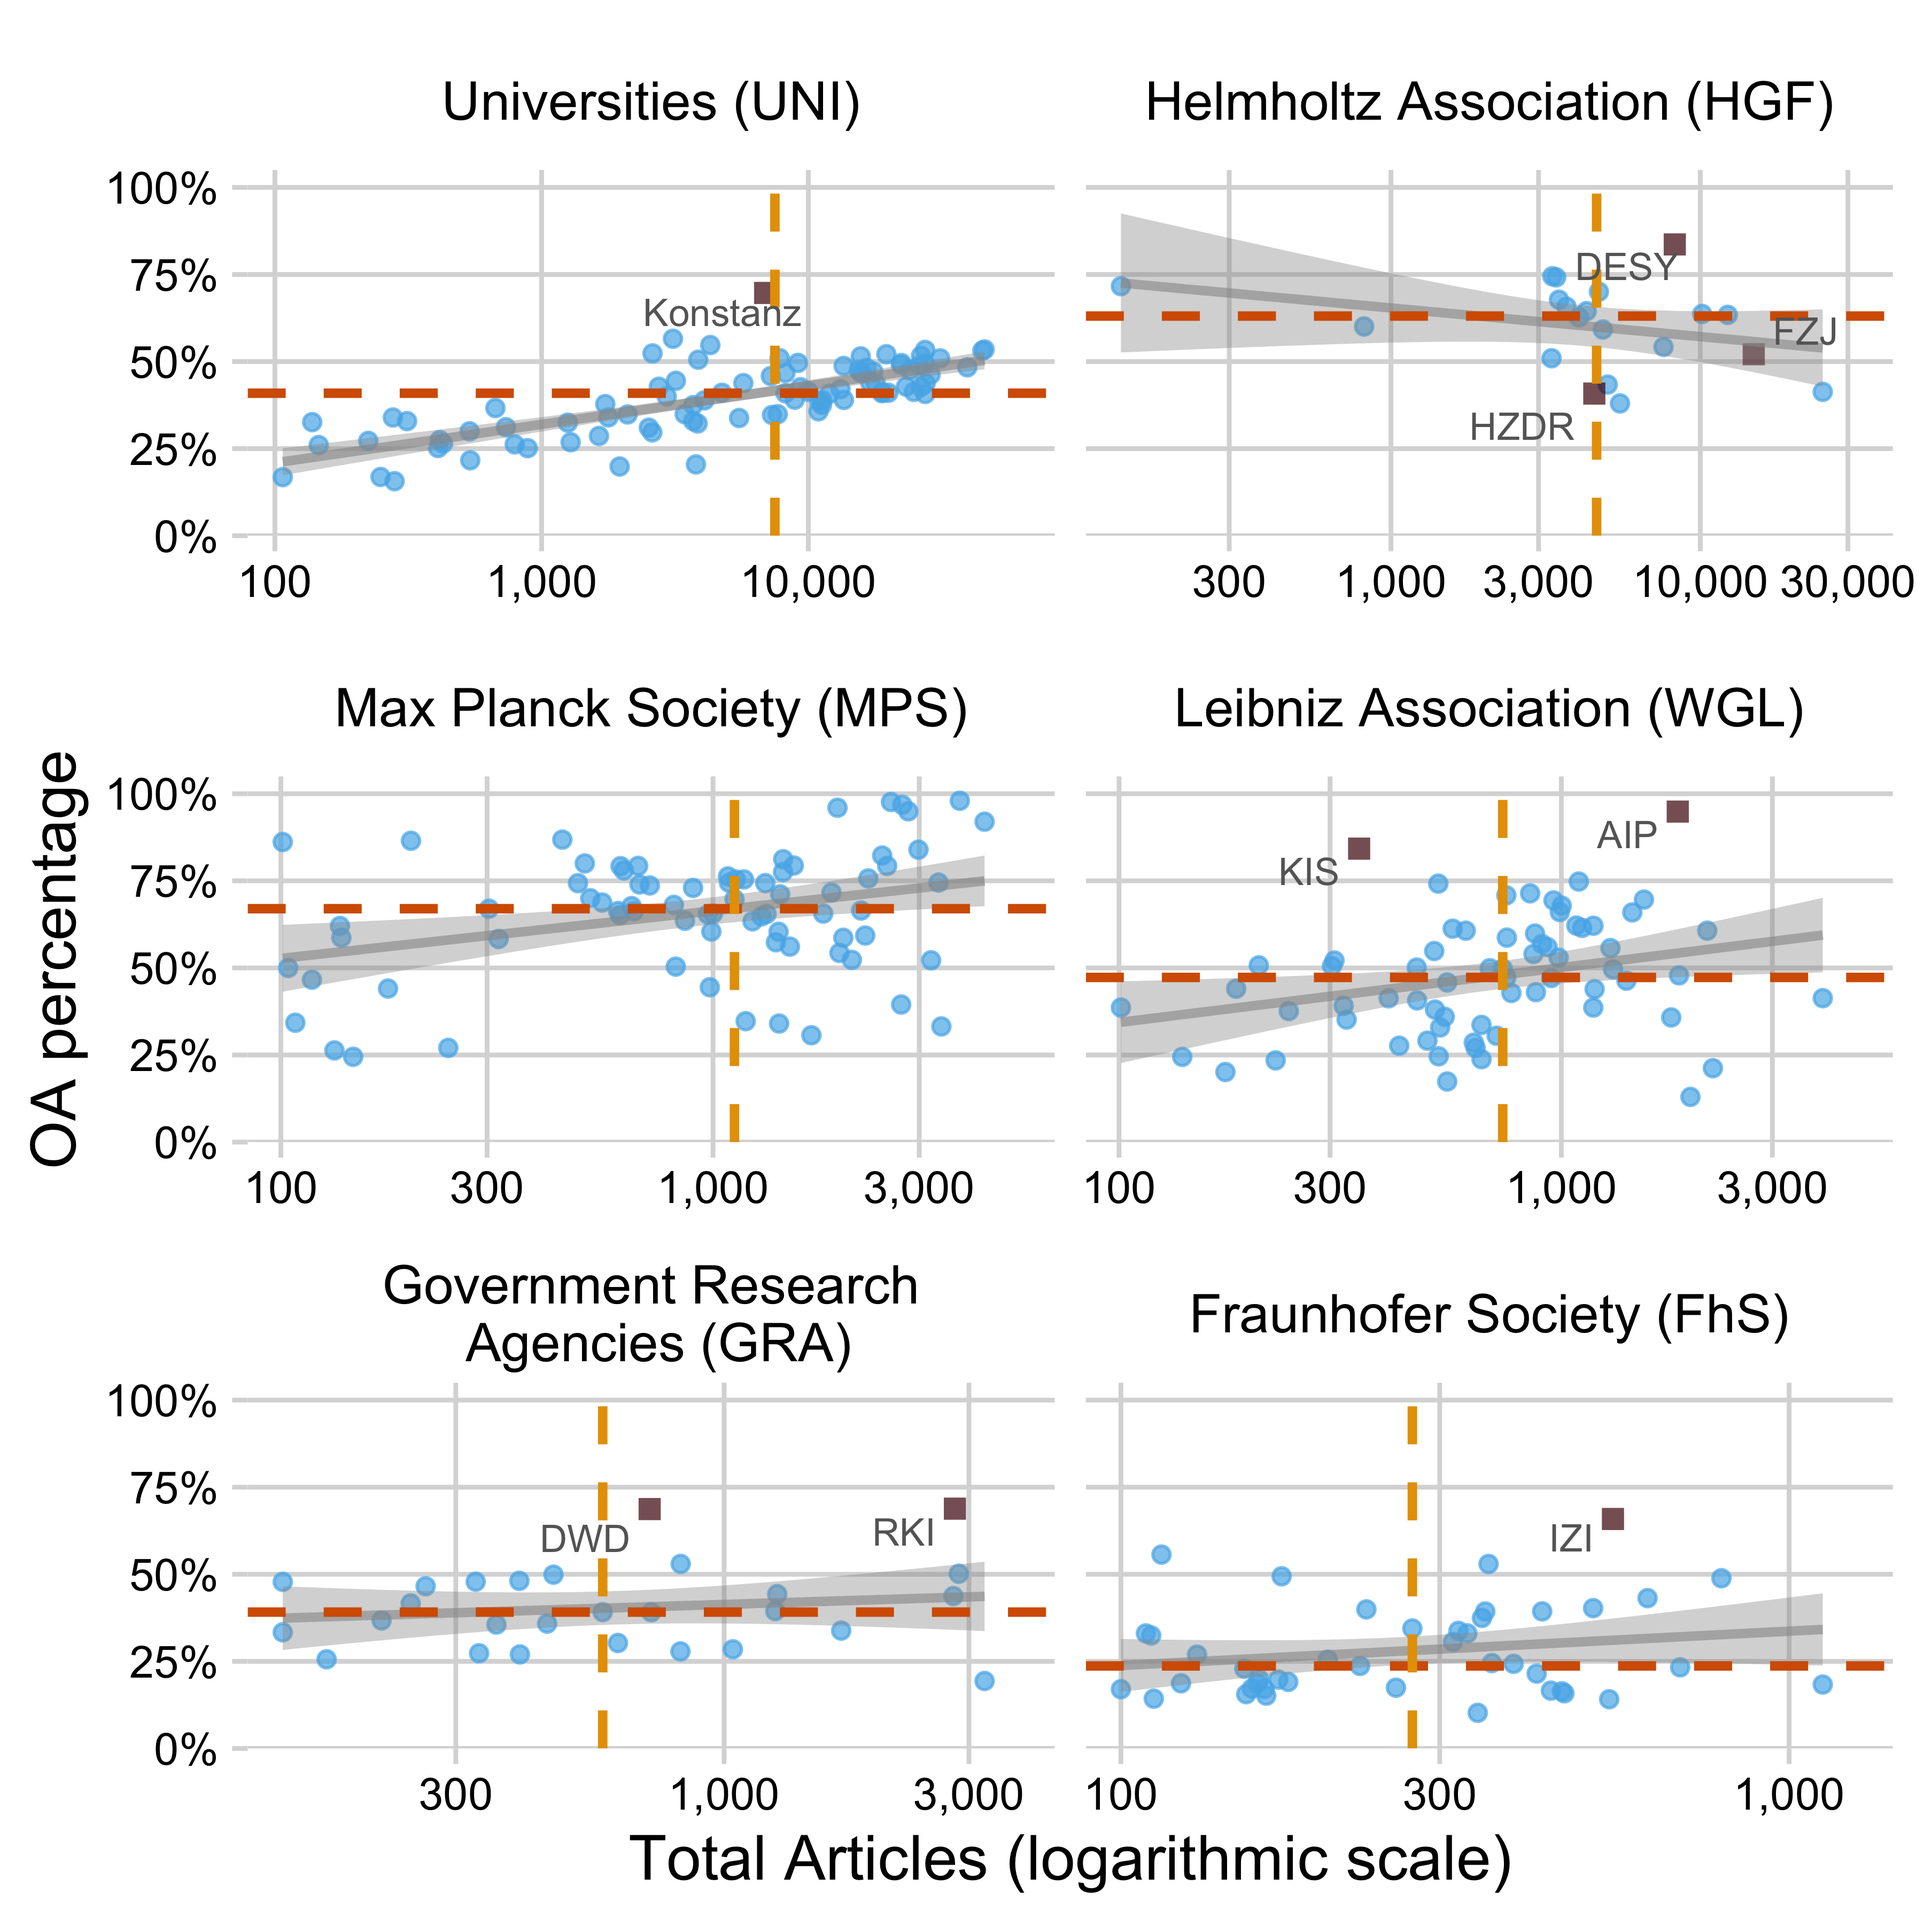
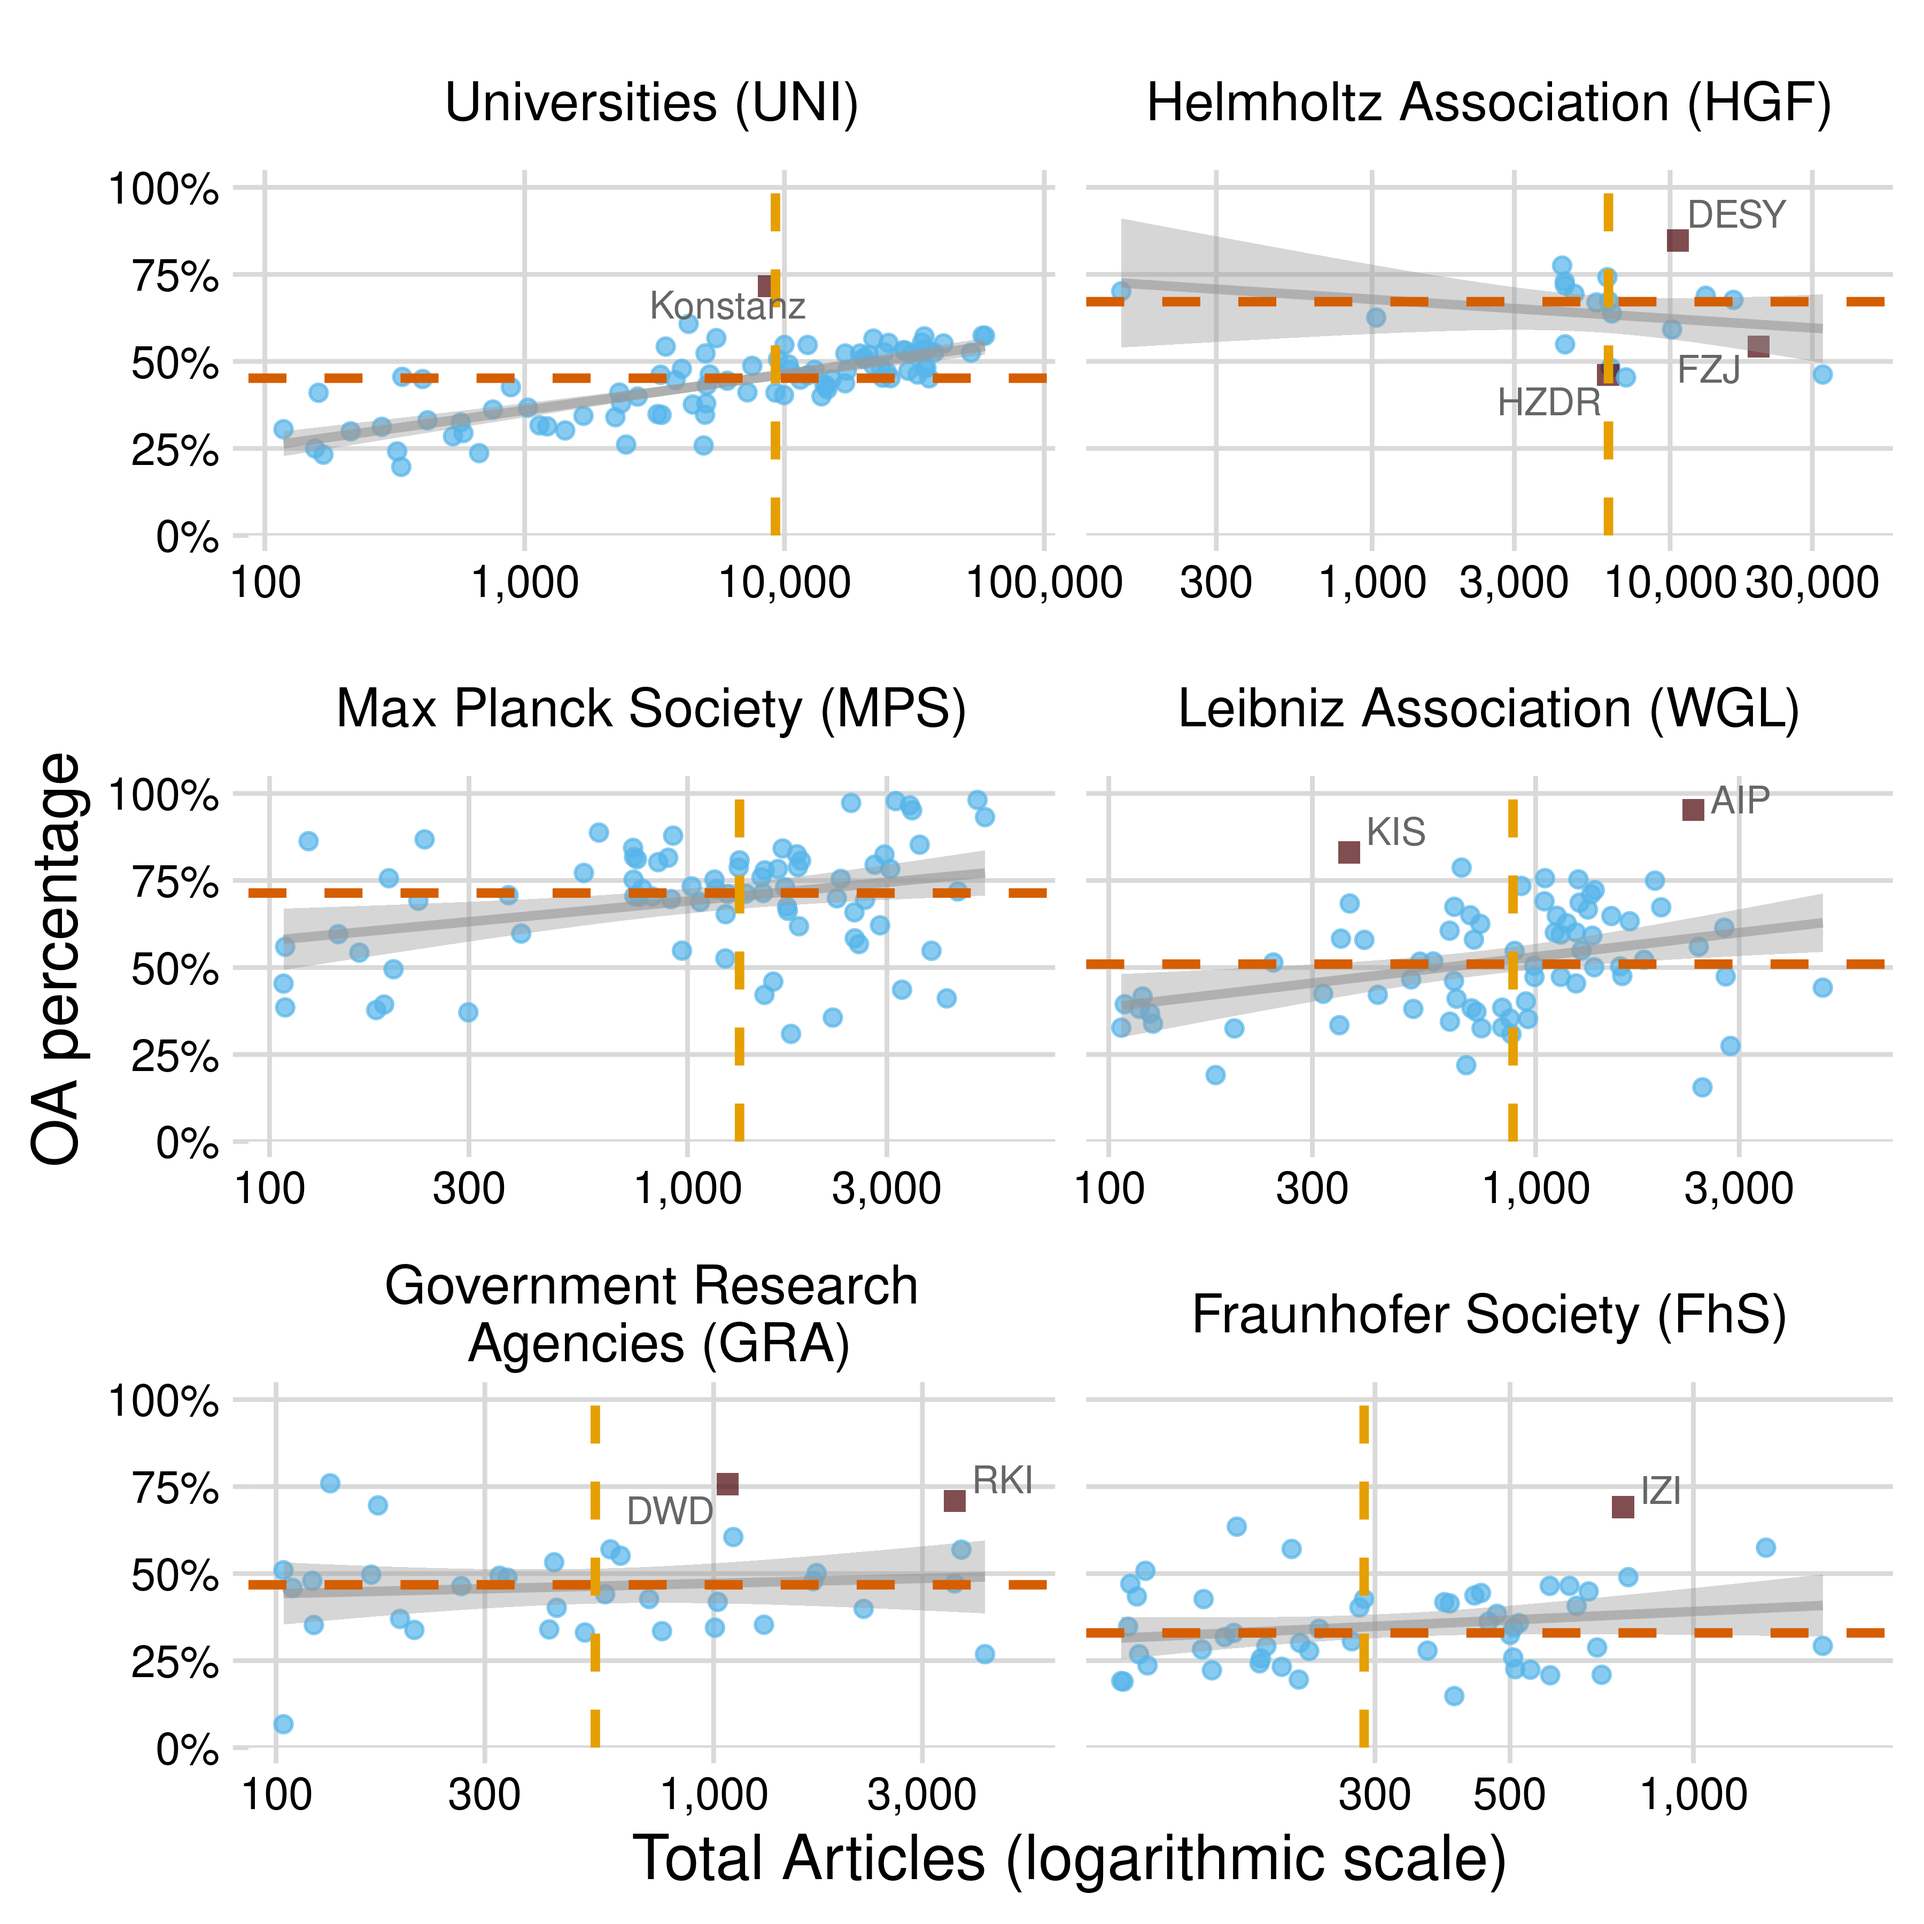
re-ran analysis with updated data

diff --git a/analysis.md b/analysis.md
@@ -30,7 +30,7 @@ following figure displays the number of publications associated with one
 of the German research institutions we considered and highlights they
 part that is freely accessible online according to Unpaywall over the
 considered time period from 2010 until 2018. The total number of
-articles over the whole period is 871922 with an overall OA share of 45
+articles over the whole period is 1113479 with an overall OA share of 49
 %.
 
 <div class="figure" style="text-align: center">
@@ -50,12 +50,12 @@ articles.
 
 As can be seen, the total number of articles, as well as the part that
 is OA increases constantly over time. The number of articles that are
-not openly available, is quite stable with a slow increase from 52803 in
-2010 to 54873 in 2013, and decreasing again continuously from that point
-onwards to 51430 publications in 2018. Since the number of OA articles
-increases continuously from 30664 publications in 2010 to 55649 in 2018,
-the relative proportion of OA articles rises significantly from 36.74 %
-in 2010 to 51.97 % in 2018.
+not openly available, is quite stable with a slow increase from 51899 in
+2010 to 55023 in 2013, and decreasing again continuously from that point
+onwards to 50190 publications in 2018. Since the number of OA articles
+increases continuously from 31593 publications in 2010 to 59362 in 2018,
+the relative proportion of OA articles rises significantly from 37.84 %
+in 2010 to 54.19 % in 2018.
 
 ### Differences between sectors
 
@@ -88,9 +88,9 @@ In order to investigate the variability of OA publishing within the
 sectors, we now go one level deeper and examine OA shares of individual
 institutions, grouped by the sector they belong to. We only include
 institututions with a publication output of at least 100 publications in
-the observed time period of 9 years. Of the 444 institutions in total,
-320 fulfill this condition. This means, that in the following
-institution specific analyses, 124 insitutions, or 6259 articles are not
+the observed time period of 9 years. Of the 473 institutions in total,
+347 fulfill this condition. This means, that in the following
+institution specific analyses, 126 insitutions, or 6351 articles are not
 considered. Of the remaining institutions, we first calculate the
 individual OA shares.
 
@@ -172,6 +172,8 @@ that is, an article might be counted for several categories and numbers
 not necessarily sum up to the total number of articles published. As a
 preliminary step, we therefore illustrate the most common combinations
 of OA categories in our dataset.
+
+<img src="analysis_files/figure-gfm/unnamed-chunk-10-1.png" width="90%" style="display: block; margin: auto;" />
 
 Keeping in mind that our categories are non-exclusive, as just shown, we
 now visualise the number of articles per category on the national level,
